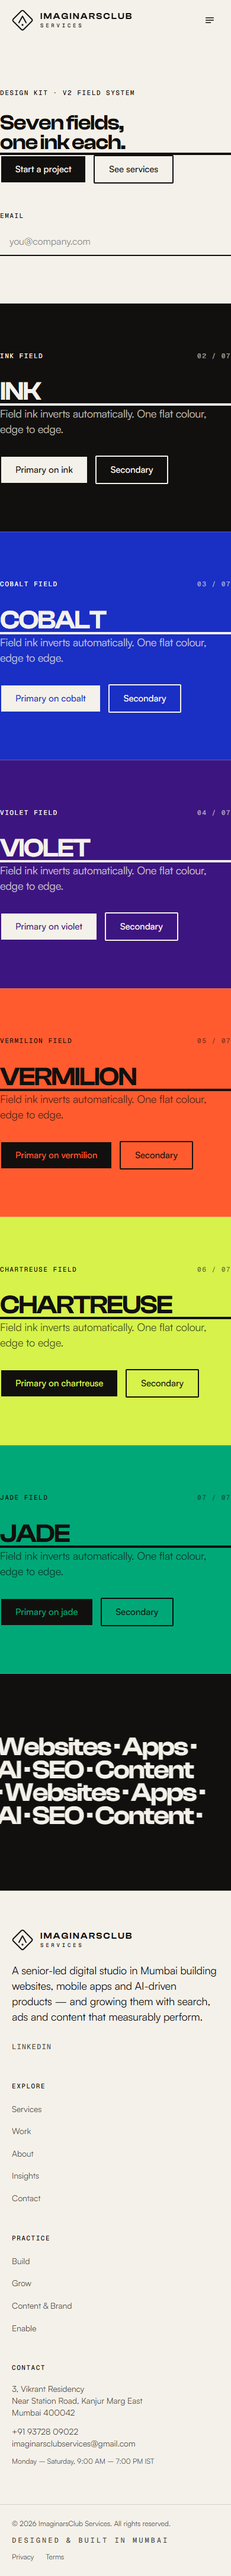
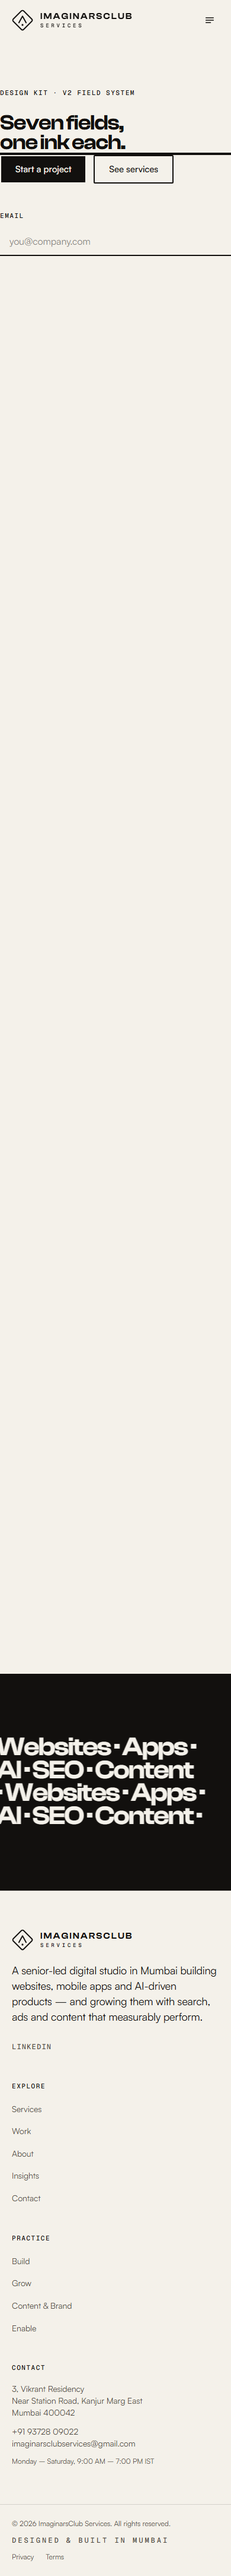
fix(editorial-v2): motion reveal system — two specificity/IO bugs
1. html.js-gated hidden states outranked the is-in open state
   (html element counted in specificity units) — masked lines and
   reveals never rose. Open-state selectors now carry html.js prefix.
2. Fully clipped .field-wipe reported intersectionRatio 0, so it could
   never trigger its own reveal. Observer now targets the parent and
   CSS keys off .is-in > .field-wipe.
Motion audit: 6 wipes open on view, 4 offering rows reveal, hero mask
rises to identity. Screenshots refreshed.

diff --git a/src/components/home/hero.tsx b/src/components/home/hero.tsx
@@ -1,77 +1,30 @@
 "use client";
 
-import { useEffect, useRef } from "react";
 import Link from "next/link";
 
 export default function Hero() {
-  const ruleRef = useRef<SVGLineElement>(null);
-  const rootRef = useRef<HTMLElement>(null);
-
-  useEffect(() => {
-    const root = rootRef.current;
-    if (!root) return;
-    const finish = () => root.classList.add("hero-done");
-    if (window.matchMedia("(prefers-reduced-motion: reduce)").matches) {
-      finish();
-      return;
-    }
-    let cancelled = false;
-    let instance: { pause: () => void } | null = null;
-    import("animejs").then(({ default: anime }) => {
-      if (cancelled || !ruleRef.current) {
-        finish();
-        return;
-      }
-      instance = anime({
-        targets: ruleRef.current,
-        strokeDashoffset: [100, 0],
-        duration: 420,
-        easing: "cubicBezier(0.16, 1, 0.30, 1)",
-        complete: finish,
-      });
-    });
-    return () => {
-      cancelled = true;
-      instance?.pause();
-    };
-  }, []);
-
   return (
-    <section ref={rootRef} data-chapter="hero" className="relative overflow-hidden">
-      <div className="hero-wash" aria-hidden="true" />
-      <div className="shell relative pt-[var(--section-y)] pb-[var(--section-y)]">
-        <p className="micro" data-hero="0">
+    <section data-chapter="hero" className="field relative overflow-hidden" data-field="paper">
+      <div className="container relative pt-[var(--field-y)]">
+        <p className="micro reveal">
           ImaginarsClub Services — Mumbai
         </p>
 
-        <svg
-          viewBox="0 0 1000 2"
-          preserveAspectRatio="none"
-          aria-hidden="true"
-          className="mt-6 h-px w-full"
-        >
-          <line
-            ref={ruleRef}
-            x1="0"
-            y1="1"
-            x2="1000"
-            y2="1"
-            pathLength={100}
-            strokeWidth="1"
-            className="hero-rule"
-          />
-        </svg>
-
-        <h1 className="display mt-8 max-w-[16ch]" data-hero="1">
-          Imagination, engineered.
+        <h1 className="mega mt-10" data-lines aria-label="Imagination, engineered.">
+          <span className="line-mask" aria-hidden="true">
+            <span style={{ "--i": 0 } as React.CSSProperties}>Imagination,</span>
+          </span>
+          <span className="line-mask" aria-hidden="true">
+            <span style={{ "--i": 1 } as React.CSSProperties}>engineered.</span>
+          </span>
         </h1>
 
-        <p className="lede mt-6" data-hero="2">
+        <p className="lede muted mt-10 reveal" style={{ "--i": 2 } as React.CSSProperties}>
           Websites, mobile apps and AI products built by a senior-led studio in
           Mumbai — grown with search, ads and content that performs.
         </p>
 
-        <div className="mt-8 flex flex-wrap gap-3" data-hero="3">
+        <div className="mt-10 flex flex-wrap gap-4 reveal" style={{ "--i": 3 } as React.CSSProperties}>
           <Link href="/contact" className="btn btn-primary">
             Start a project
           </Link>
@@ -80,6 +33,11 @@ export default function Hero() {
           </Link>
         </div>
       </div>
+
+      <div className="type-graphic-wrap" aria-hidden="true">
+        <span className="type-graphic">IMAGINARS</span>
+      </div>
     </section>
   );
 }
+

diff --git a/src/app/design-tokens.css b/src/app/design-tokens.css
@@ -374,23 +374,35 @@ p {
    MOTION — line mask, field wipe, reveal, one marquee
    ========================================================================= */
 
-.line-mask { display: block; overflow: hidden; }
-.line-mask > * {
+html.js .line-mask { display: block; overflow: hidden; }
+html.js .line-mask > * {
   display: block;
   transform: translateY(105%);
   transition: transform var(--dur-reveal) var(--ease-editorial);
   transition-delay: calc(var(--i, 0) * var(--stagger));
 }
-.is-in .line-mask > *,
-.line-mask.is-in > * { transform: translateY(0); }
+html.js .is-in .line-mask > *,
+html.js .line-mask.is-in > * { transform: translateY(0); }
 
 .field-wipe {
+  clip-path: none;
+}
+html.js .field-wipe {
   clip-path: inset(100% 0 0 0);
   transition: clip-path var(--dur-reveal) var(--ease-wipe);
 }
-.field-wipe.is-in { clip-path: inset(0 0 0 0); }
+.field-wipe.is-in,
+html.js .field-wipe.is-in,
+.is-in > .field-wipe,
+html.js .is-in > .field-wipe {
+  clip-path: inset(0 0 0 0);
+}
 
 .reveal {
+  opacity: 1;
+  transform: none;
+}
+html.js .reveal {
   opacity: 0;
   transform: translateY(var(--reveal-y));
   transition:
@@ -398,7 +410,31 @@ p {
     transform var(--dur-base) var(--ease-editorial);
   transition-delay: calc(var(--i, 0) * var(--stagger));
 }
-.reveal.is-in { opacity: 1; transform: none; }
+.reveal.is-in,
+html.js .reveal.is-in {
+  opacity: 1;
+  transform: none;
+}
+
+.type-graphic-wrap {
+  overflow: hidden;
+  width: 100%;
+  line-height: 0.8;
+}
+
+.type-graphic {
+  display: inline-block;
+  font-family: var(--font-display);
+  font-weight: var(--weight-display);
+  font-size: clamp(6rem, 25vw, 26rem);
+  line-height: 0.8;
+  letter-spacing: var(--tracking-mega);
+  white-space: nowrap;
+  padding-left: max(var(--gutter), calc((100vw - var(--container-w)) / 2 + var(--gutter)));
+  transform: translateY(12%);
+  user-select: none;
+  pointer-events: none;
+}
 
 .marquee { overflow: hidden; white-space: nowrap; }
 .marquee > * {
@@ -426,3 +462,5 @@ p {
   .reveal { opacity: 1; transform: none; }
   .marquee > * { animation: none; }
 }
+
+

diff --git a/src/components/motion/motion-provider.tsx b/src/components/motion/motion-provider.tsx
@@ -2,21 +2,27 @@
 
 import { useEffect, type ReactNode } from "react";
 
+const SELECTOR =
+  ".reveal:not(.is-in), .field-wipe:not(.is-in), [data-lines]:not(.is-in)";
+
 export default function MotionProvider({ children }: { children: ReactNode }) {
   useEffect(() => {
-    const reduced = window.matchMedia("(prefers-reduced-motion: reduce)").matches;
     document.documentElement.classList.add("js");
 
+    const reduced = window.matchMedia("(prefers-reduced-motion: reduce)").matches;
     const els = Array.from(
-      document.querySelectorAll<HTMLElement>(
-        ".reveal:not(.is-in), .field-wipe:not(.is-in), [data-lines]:not(.is-in)"
-      )
+      document.querySelectorAll<HTMLElement>(SELECTOR)
     );
-    if (!els.length || reduced) {
+
+    if (reduced) {
       els.forEach((el) => el.classList.add("is-in"));
       return;
     }
 
+    // A fully clipped element (.field-wipe) reports zero intersection area,
+    // so the observer targets its parent instead and the open-state CSS
+    // keys off `.is-in > .field-wipe`.
+    const observed = new Set<Element>();
     const io = new IntersectionObserver(
       (entries) => {
         for (const entry of entries) {
@@ -28,7 +34,21 @@ export default function MotionProvider({ children }: { children: ReactNode }) {
       { threshold: 0.15, rootMargin: "0px 0px -40px 0px" }
     );
 
-    els.forEach((el) => io.observe(el));
+    for (const el of els) {
+      if (el.classList.contains("field-wipe")) {
+        const parent = el.parentElement;
+        if (parent && !observed.has(parent)) {
+          observed.add(parent);
+          io.observe(parent);
+        }
+        continue;
+      }
+      if (!observed.has(el)) {
+        observed.add(el);
+        io.observe(el);
+      }
+    }
+
     return () => io.disconnect();
   }, []);
 
